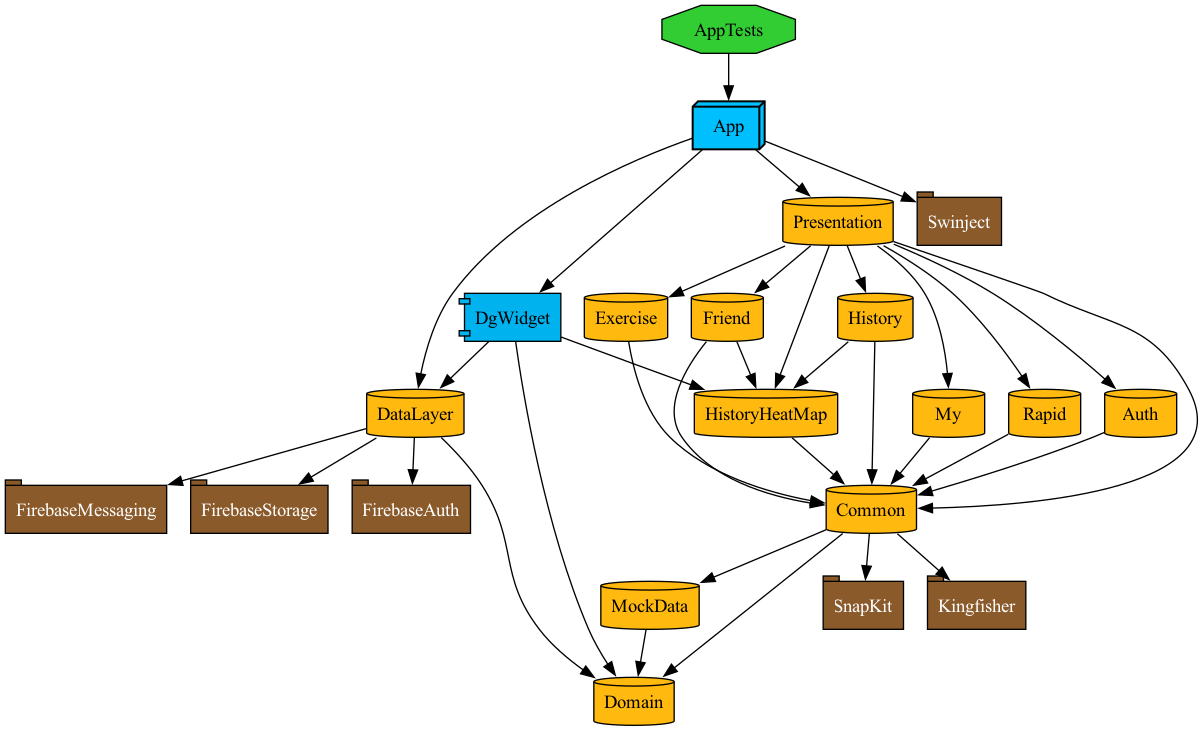
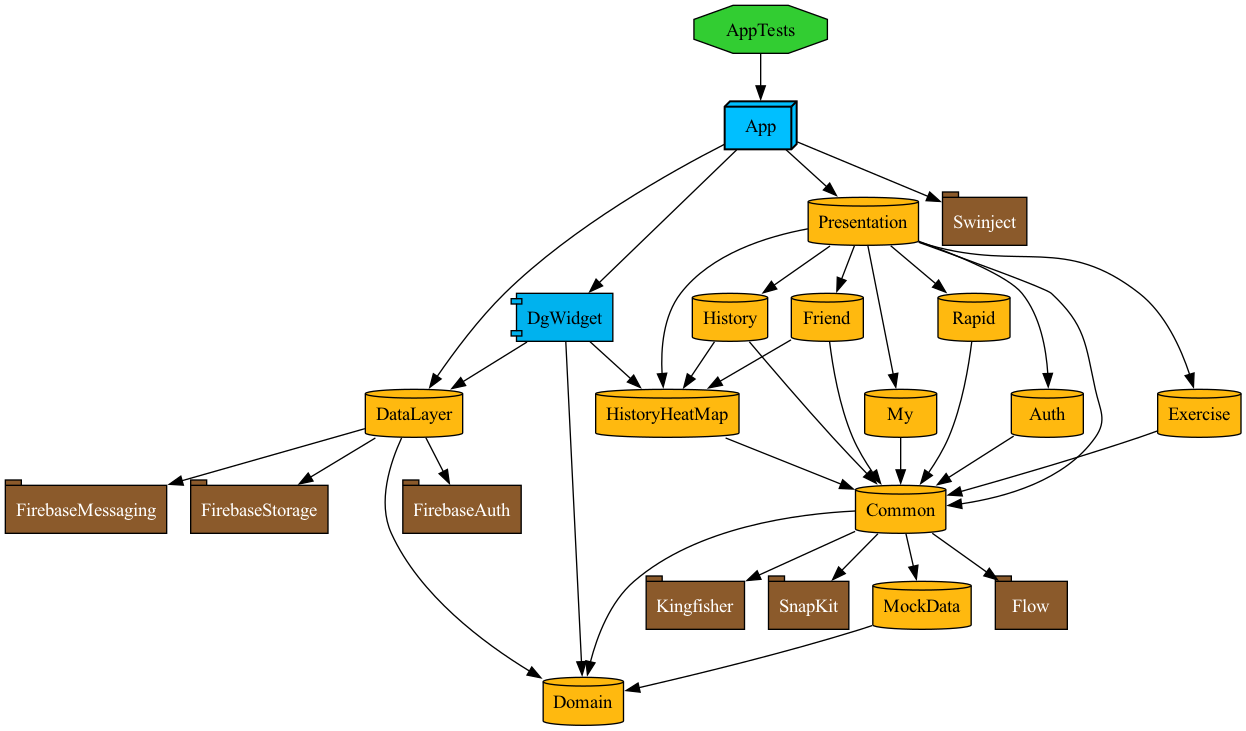
feat: add flow

diff --git a/Project.swift b/Project.swift
@@ -219,7 +219,8 @@ func createPresentations() -> [Target] {
                     .target(name: Layer.MockData.rawValue, condition: nil),
                     .target(name: Layer.Domain.rawValue, condition: nil),
                     .package(product: "Kingfisher", type: .runtime, condition: nil),
-                    .package(product: "SnapKit", type: .runtime, condition: nil)
+                    .package(product: "SnapKit", type: .runtime, condition: nil),
+                    .package(product: "Flow", type: .runtime, condition: nil)
                 ]
             )
         }
@@ -242,7 +243,8 @@ let project = Project(
         .remote(url: "https://github.com/firebase/firebase-ios-sdk", requirement: .upToNextMajor(from: "10.15.0")),
         .remote(url: "https://github.com/onevcat/Kingfisher", requirement: .upToNextMajor(from: "7.11.0")),
         .remote(url: "https://github.com/SnapKit/SnapKit", requirement: .upToNextMajor(from: "5.7.1")),
-        .remote(url: "https://github.com/Swinject/Swinject", requirement: .upToNextMajor(from: "2.9.1"))
+        .remote(url: "https://github.com/Swinject/Swinject", requirement: .upToNextMajor(from: "2.9.1")),
+        .remote(url: "https://github.com/tevelee/SwiftUI-Flow", requirement: .upToNextMajor(from: "2.2.0"))
     ],
     settings: .settings(configurations: [
         .debug(name: "debug", xcconfig: "\(projectName)/configs/project.xcconfig"),
